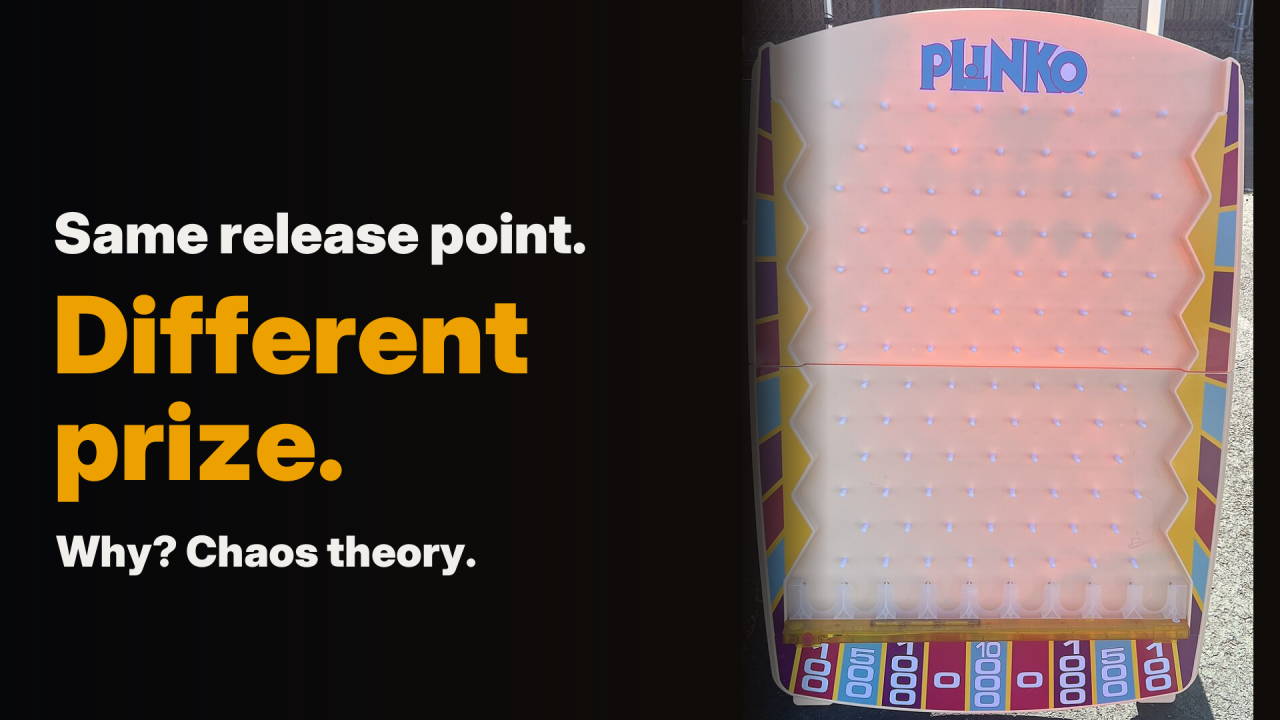
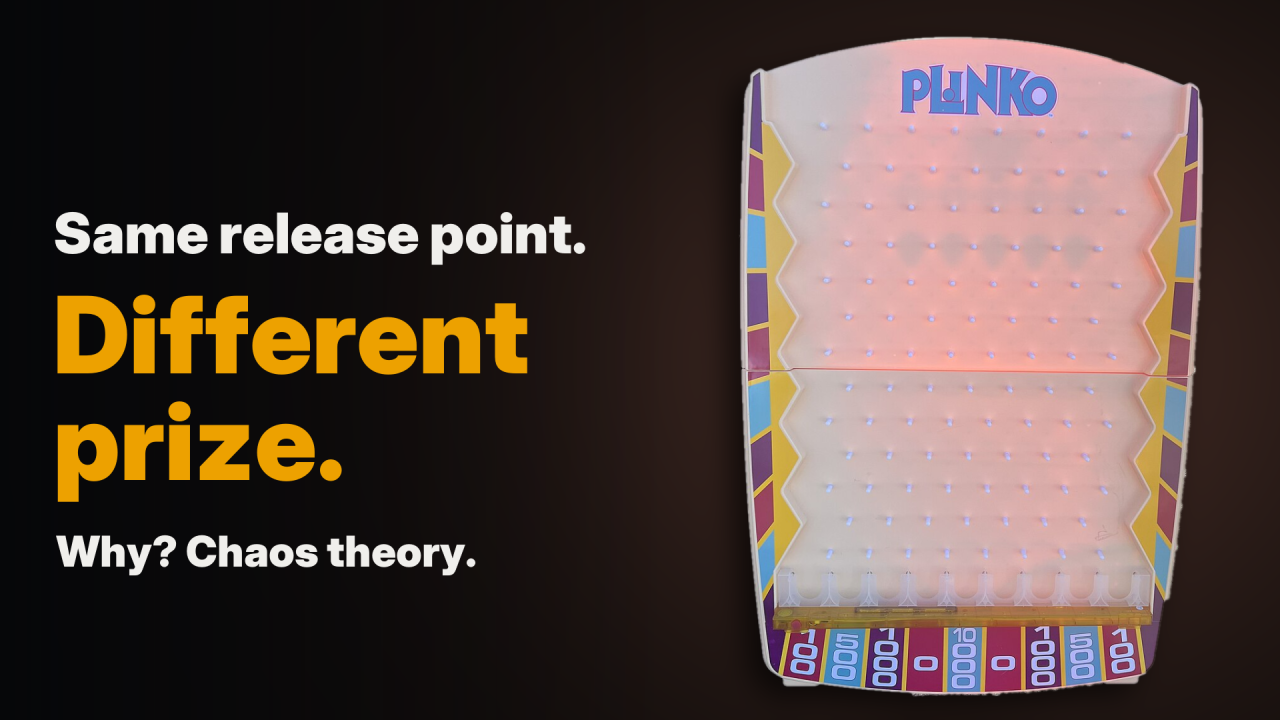
Thumbnail D: the board cut out of its background (GrabCut alpha), on the dark backdrop
Claude-Session: https://claude.ai/code/session_01S7EUMzPhLyDgSQHoFb2Ud4

Changed region(s): [[0.4688, 0.0, 1.0, 1.0]]

diff --git a/plinko/thumbs_chaos.py b/plinko/thumbs_chaos.py
@@ -40,18 +40,59 @@ def labels(cm, crop, win, rep):
     return draw
 
 
+SRC = "../videos/plinko/thumbnails/sources/The_Price_Is_Right_Plinko_Home_Game_960px.jpg"
+CUTOUT = "../videos/plinko/thumbnails/sources/The_Price_Is_Right_Plinko_Home_Game_cutout.png"
+
+
+def make_cutout():
+    """The board alone, background transparent: GrabCut from a box around the board, largest piece, holes
+    filled, smoothed, pulled in 1 px off the background fringe, feathered. Saved as RGBA (CC BY-SA 4.0, like
+    its source)."""
+    im = cv2.imread(SRC)
+    mask = np.zeros(im.shape[:2], np.uint8)
+    bgd, fgd = np.zeros((1, 65), np.float64), np.zeros((1, 65), np.float64)
+    cv2.setRNGSeed(1)
+    cv2.grabCut(im, mask, (105, 105, 770, 1080), bgd, fgd, 8, cv2.GC_INIT_WITH_RECT)
+    fg = np.where((mask == cv2.GC_FGD) | (mask == cv2.GC_PR_FGD), 255, 0).astype(np.uint8)
+
+    def largest(m):
+        _, lab, st, _ = cv2.connectedComponentsWithStats(m)
+        return np.where(lab == 1 + int(np.argmax(st[1:, cv2.CC_STAT_AREA])), 255, 0).astype(np.uint8)
+    fg = largest(fg)
+    cnts, _ = cv2.findContours(fg, cv2.RETR_EXTERNAL, cv2.CHAIN_APPROX_NONE)
+    fg = cv2.drawContours(np.zeros_like(fg), cnts, -1, 255, -1)
+    k = cv2.getStructuringElement(cv2.MORPH_ELLIPSE, (11, 11))
+    fg = largest(cv2.morphologyEx(cv2.morphologyEx(fg, cv2.MORPH_OPEN, k), cv2.MORPH_CLOSE, k))
+    fg = cv2.erode(fg, cv2.getStructuringElement(cv2.MORPH_ELLIPSE, (3, 3)))
+    alpha = cv2.GaussianBlur(fg, (0, 0), 1.2)
+    x, y, w, h = cv2.boundingRect(fg)
+    out = np.dstack([im, alpha])[max(0, y - 6):y + h + 6, max(0, x - 6):x + w + 6]
+    cv2.imwrite(CUTOUT, out)
+    return out
+
+
 def thumb_d():
+    """A photo of a real Plinko board, cut out of its background, beside the film's line."""
     OW, OH = CC.OW, CC.OH
-    photo = cv2.imread("../videos/plinko/thumbnails/sources/The_Price_Is_Right_Plinko_Home_Game_960px.jpg")
-    crop = photo[110:1180, 110:870]                       # the board, from its sign to the prize panel
-    crop = cv2.resize(crop, (int(crop.shape[1] * OH / crop.shape[0]), OH), interpolation=cv2.INTER_AREA)
-    bg = np.zeros((OH, OW, 3), np.float32)
-    bg[:] = (10 / 255, 12 / 255, 16 / 255)
-    img = bg.copy()
-    x0 = OW - crop.shape[1] - 40
-    img[:, x0:x0 + crop.shape[1]] = crop / 255.0                    # finish() takes BGR, as cv2 does
-    ramp = np.clip((np.arange(OW) - (x0 - 10)) / 140.0, 0, 1)[None, :, None]
-    img = img * ramp + bg * (1 - ramp)
+    cut = cv2.imread(CUTOUT, cv2.IMREAD_UNCHANGED)
+    if cut is None:
+        cut = make_cutout()
+    H = 1000
+    cut = cv2.resize(cut, (int(cut.shape[1] * H / cut.shape[0]), H), interpolation=cv2.INTER_AREA)
+    rgb, a = cut[..., :3] / 255.0, cut[..., 3:4] / 255.0
+    yy, xx = np.mgrid[0:OH, 0:OW]
+    x0, y0 = OW - cut.shape[1] - 110, (OH - H) // 2 + 10
+    cx, cy = x0 + cut.shape[1] / 2, OH / 2
+    glow = np.exp(-(((xx - cx) / 620.0) ** 2 + ((yy - cy) / 520.0) ** 2))[..., None]
+    img = np.empty((OH, OW, 3), np.float32)
+    img[:] = (0.04, 0.045, 0.06)                                     # BGR, as cv2 and finish() use
+    img += glow * np.array([0.10, 0.12, 0.20])                       # warm light behind the board
+    sh = np.zeros((OH, OW), np.float32)                              # soft shadow, down and to the left
+    sh[y0 + 18:y0 + 18 + H, x0 - 22:x0 - 22 + cut.shape[1]] = a[..., 0]
+    sh = cv2.GaussianBlur(sh, (0, 0), 22)[..., None]
+    img *= 1 - 0.65 * sh
+    reg = img[y0:y0 + H, x0:x0 + cut.shape[1]]
+    img[y0:y0 + H, x0:x0 + cut.shape[1]] = rgb * a + reg * (1 - a)
     T.finish(img, [("Same release point.", 80, 380, 84, D.INK, "black"), ("Different", 80, 560, 160, D.GOLD, "black"),
                    ("prize.", 80, 720, 160, D.GOLD, "black"), ("Why? Chaos theory.", 84, 850, 64, D.INK, "black")],
              "plinko_chaos_thumb_D")

diff --git a/videos/plinko/thumbnails/sources/ATTRIBUTION.md b/videos/plinko/thumbnails/sources/ATTRIBUTION.md
@@ -5,6 +5,7 @@
 https://commons.wikimedia.org/wiki/File:The_Price_Is_Right_Plinko_Home_Game.jpg
 licensed CC BY-SA 4.0 (https://creativecommons.org/licenses/by-sa/4.0/).
 
-`plinko_chaos_thumb_D.png` adapts it (cropped, placed beside text) and is therefore also licensed
-CC BY-SA 4.0. The PLINKO name and logo on the board are trademarks of their owners; their appearance
+`The_Price_Is_Right_Plinko_Home_Game_cutout.png` is the board cut out of its background (alpha mask from
+OpenCV GrabCut, `plinko/thumbs_chaos.py make_cutout`), and `plinko_chaos_thumb_D.png` places that cut-out on a
+dark background beside text. Both adapt the photo and are therefore also licensed CC BY-SA 4.0. The PLINKO name and logo on the board are trademarks of their owners; their appearance
 does not imply endorsement.
